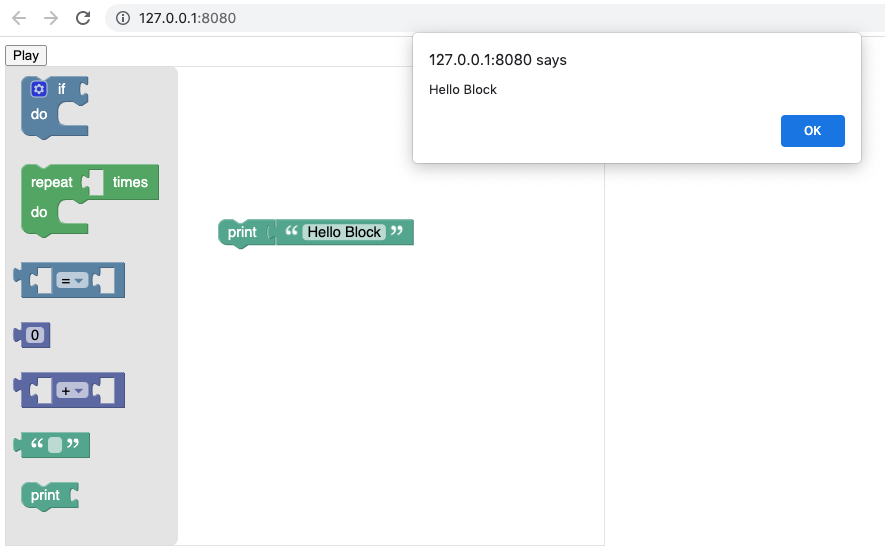
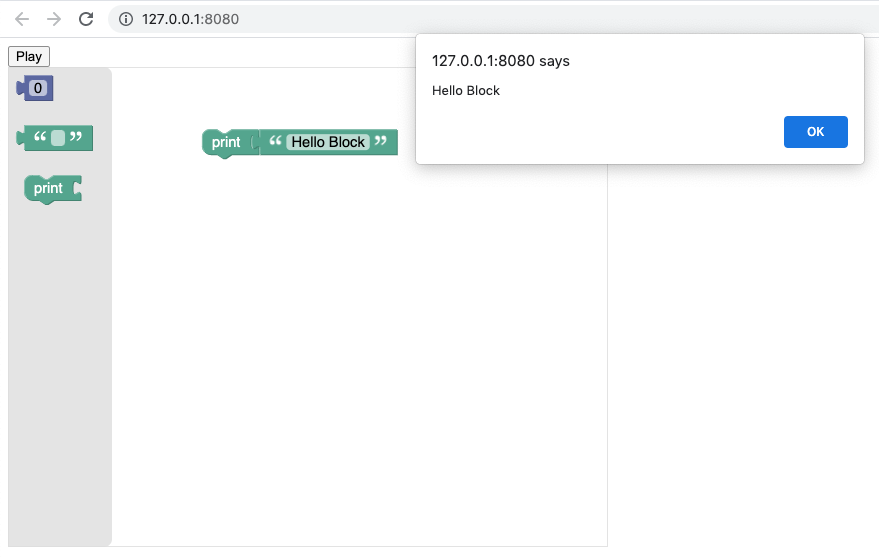
Complete final tutorial

diff --git a/content/posts/toneblocks-pt1.md b/content/posts/toneblocks-pt1.md
@@ -15,9 +15,9 @@ This is **Part 1** of several posts taking a closer look at the application and 
 ## Tone.js & Blockly
 Essentially, Toneblocks combines two frameworks, Tone.js and Blockly, in a proof of concept project that seeks to make programming less daunting to novice users (thus, a block-based interface) interested in creating music with code (thus, synthesis with web audio). 
 
-[Tone.js](https://tonejs.github.io/) is a web audio JavaScript framework built for musicians and audio programmers looking to create interesting web-based audio applications.  Particularly of interest to me was Tone.js's synchronization abilities. Specifically, the Tone.js Transport is handy way to sync musical events in a more intuitive way than some other code-based audio environments. 
+[Tone.js](https://tonejs.github.io/) is a web audio JavaScript framework built for musicians and audio programmers looking to create interesting web-based audio applications.  Particularly of interest to me was Tone.js's synchronization abilities. Specifically, the Tone.js Transport is handy way to sync musical events in a more intuitive way than some other code-based audio environments. Tone.js is developed by [Yotam Mann](https://yotammann.info/). 
 
-[Blockly](https://developers.google.com/blockly) is a framework for creating block-based graphical user interfaces, similar to those found in [Scratch](https://scratch.mit.edu/), a popular block-based programming language developed at MIT with a large and active user base. 
+[Blockly](https://developers.google.com/blockly) is a framework for creating block-based graphical user interfaces, similar to those found in [Scratch](https://scratch.mit.edu/), a popular block-based programming language developed at MIT with a large and active user base. Blockly is developed by Google.
 
 ## Lets Make Something!
 
@@ -120,11 +120,7 @@ In its barest form, Blockly requires a *Workspace* on your page within which you
     <!-- Create Blockly elements -->
     <div id="blocklyDiv" style="height: 480px; width: 600px;"></div>
     <xml id="toolbox" style="display: none">
-        <block type="controls_if"></block>
-        <block type="controls_repeat_ext"></block>
-        <block type="logic_compare"></block>
         <block type="math_number"></block>
-        <block type="math_arithmetic"></block>
         <block type="text"></block>
         <block type="text_print"></block>
       </xml>
@@ -247,4 +243,147 @@ Load the file in a browser window, you should see the **Play** button and a Bloc
 ![](../../images/hello-block.png)
 
 ### A Tone Block
-- creating a block that plays a note based on MIDI number input
+For the final section, we'll create a custom Blockly block. This block will create a new Synth object, and have an input for a MIDI note number, supply by a separate number block. When the Blockly workspace code is run, the synth will play an 8th note with the equivalent pitch of the input MIDI number.
+
+With Blockly, every block needs a definition to dictate the shape, color, inputs, text, etc. of our block, and a generator function to handle the code that is added to the workspace when the block is created. As always, consult the developer's docs when using their API. [Blockly's is thorough](https://developers.google.com/blockly/guides/create-custom-blocks/define-blocks)! We'll start by creating a file `synth.js` in our directory. And we'll define our custom block in JavaScript format (you can also use JSON).
+```
+// Define the block
+Blockly.Blocks['synth'] = { // Name it "synth"
+    init: function () {
+        this.appendDummyInput()
+            .appendField("Synth"); // Label the block
+        this.appendValueInput('PITCH') // Name the input value
+            .setCheck('Number') // Check that it is a number
+            .appendField('MIDI Note'); // Label the input
+    }
+};
+```
+Next we write the generator function. You'll notice this gets a little bit weird. We need to write some JavaScript code to get the pitch value from the input and check its type and range. Ultimately we want the block to create a new Synth object, read the pitch value from a seperate number block, and trigger a note. But we want the actual note triggering to happen when we click our **Play** button. In order to do that, we have to encapsulate the relevant code as a string, and return this to our workspace. That way, the instructions to create the synth and play the note are all there when the `runCode()` function is called. So in our `synth.js` file, just below our definition, the generator function looks like this:
+```
+// Generator function called when the block is dragged into the workspace
+Blockly.JavaScript['synth'] = function (block) {
+
+    // Get the pitch value from the input, convert it to an integer, or null if no value is present
+    const pitch = parseInt(Blockly.JavaScript.valueToCode(block, 'PITCH', Blockly.JavaScript.ORDER_FUNCTION_CALL)) || null;
+
+    // Check that the pitch value is in range 0 - 127
+    if (pitch < 0 || pitch > 127 || pitch === null) {
+        return `alert("MIDI Number must be between 0 and 127")`
+    }
+
+    // Assign the code to be returned to the workspace as text
+    // This will then be evaluated when runCode() is called
+    const code = 
+    `
+    // Create new synth object, route to destination (speakers)
+    const synth = new Tone.Synth().toDestination();
+
+    // Convert MIDI pitch value to frequency (Hz) and trigger an 8th note
+    synth.triggerAttackRelease(Tone.Frequency(${pitch}, "midi"), '8n');
+    `;
+    
+    // returns the text of the code we want added to the workspace
+    return code;
+};
+```
+Now our custom synth block is all set. We just need to load it into our main `index.html` file and remove the old synth and trigger code (since we're doing that in the custom block now).  
+Load in the custom block in the `<head>` section below Tone.js and Blockly:
+```
+<!-- Load Custom Block -->
+<script src="synth.js"></script>
+```
+Add the synth block to your `toolbox`:
+```
+<xml id="toolbox" style="display: none">
+    <block type="math_number"></block>
+    <block type="text"></block>
+    <block type="text_print"></block>
+    <!-- our new custom synth block! -->
+    <block type="synth"></block>
+</xml>
+```
+Since we're handling the synth in it's own block, we can remove the original one we made and also remove the `triggerAttackRelease()` from the button's *on click* function. Instead that will all happen when we call `runCode()`.  
+The last thing to do is to have our button click start the Tone audio context. Most browsers won't allow audio to play until the user takes some kind of action. Since we're using the same button to create and trigger our audio, there could be some issues with the audio attempting to trigger before its been allowed. To avoid this, we'll call `Tone.start()` right before we run our code, and we'll give the *on click* function an asyc/await to make sure we're all set before evaluating the workspace code.
+```
+// Add "on click" function to start audio context and call runCode
+button.addEventListener('click', async () => {
+    await Tone.start();
+    runCode();
+});
+```
+And that's it! Now we have a custom synth block which takes a MIDI Note number value and plays an 8th note at the corresponding pitch when you click **Play**. The full `index.html` file should be something like:
+```
+<!DOCTYPE html>
+<html lang="en">
+<head>
+    <meta charset="UTF-8">
+    <meta http-equiv="X-UA-Compatible" content="IE=edge">
+    <meta name="viewport" content="width=device-width, initial-scale=1.0">
+    <title>Toneblocks Pt1</title>
+
+        <!-- Load Tone.js -->
+        <script src="https://cdnjs.cloudflare.com/ajax/libs/tone/14.8.26/Tone.js" integrity="sha512-+esjJ8NSEfoB5Sr8R7jTcYxCR1Bd6q9C+WQC0JA2UXVPT8Mlo/TJqqyp0qeeoxFzkAaa8t6tZCHLGmw3oNI2Qg==" crossorigin="anonymous" referrerpolicy="no-referrer"></script>
+    
+        <!-- Load Blockly -->
+        <script src="https://unpkg.com/blockly/blockly_compressed.js"></script>
+        <script src="https://unpkg.com/blockly/blocks_compressed.js"></script>
+        <script src="https://unpkg.com/blockly/javascript_compressed.js"></script>
+        <script src="https://unpkg.com/blockly/msg/en.js"></script>
+
+        <!-- Load Custom Block -->
+        <script src="synth.js"></script>
+</head>
+<body>
+
+    <!-- Create button element -->
+    <button id="play">Play</button>
+
+    <!-- Create Blockly elements -->
+    <div id="blocklyDiv" style="height: 480px; width: 600px;"></div>
+    <xml id="toolbox" style="display: none">
+        <block type="math_number"></block>
+        <block type="text"></block>
+        <block type="text_print"></block>
+        <block type="synth"></block>
+      </xml>
+
+    <script>
+ 
+        // Assign button variable to button element
+        const button = document.getElementById('play');
+
+        // Add "on click" function to start audio context and call runCode
+        button.addEventListener('click', async () => {
+            await Tone.start();
+            runCode();
+        });
+
+        // Inject Blockly workspace
+        const workspace = Blockly.inject('blocklyDiv', {toolbox: document.getElementById('toolbox')});
+
+        // Create function to evaluate Blockly code
+        function runCode() {
+
+            // reserve "code" to avoid conflicts between the user's workspace and the page
+            Blockly.JavaScript.addReservedWords('code');
+
+            // Assign the contents of the workspace to te 'code' variable
+            const code = Blockly.JavaScript.workspaceToCode(workspace);
+
+            // Try to evaluate the code in the workspace, display any errors
+            try {
+                eval(code);
+            } catch (e) {
+                alert(e);
+            }
+        }
+
+    </script>
+    
+</body>
+</html>
+```
+In a browser, it should look something like this, and play the pitch value you supply:
+![](../../images/a-tone-block.png)  
+
+Thanks for following along! This was a simplified look at the basic mechanics underlying Toneblocks: using Blockly to interface with Tone.js and create music with code in the browser. In future posts I'll take a closer look at the specific blocks constructed for the application, like **Synth**, **Volume**, and scheduling **Loops** with the `Tone.Transport`.
